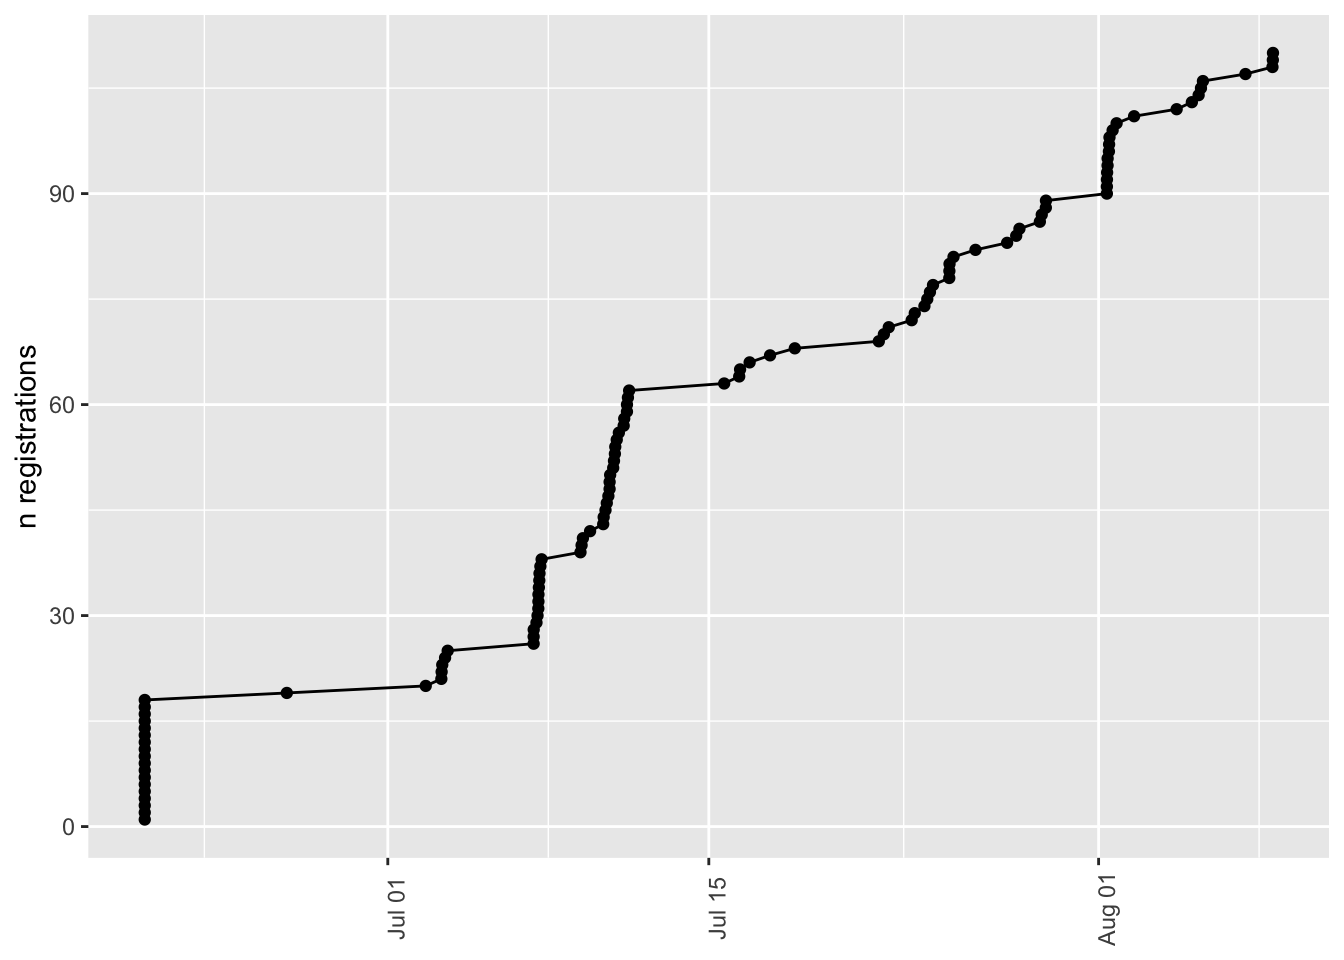
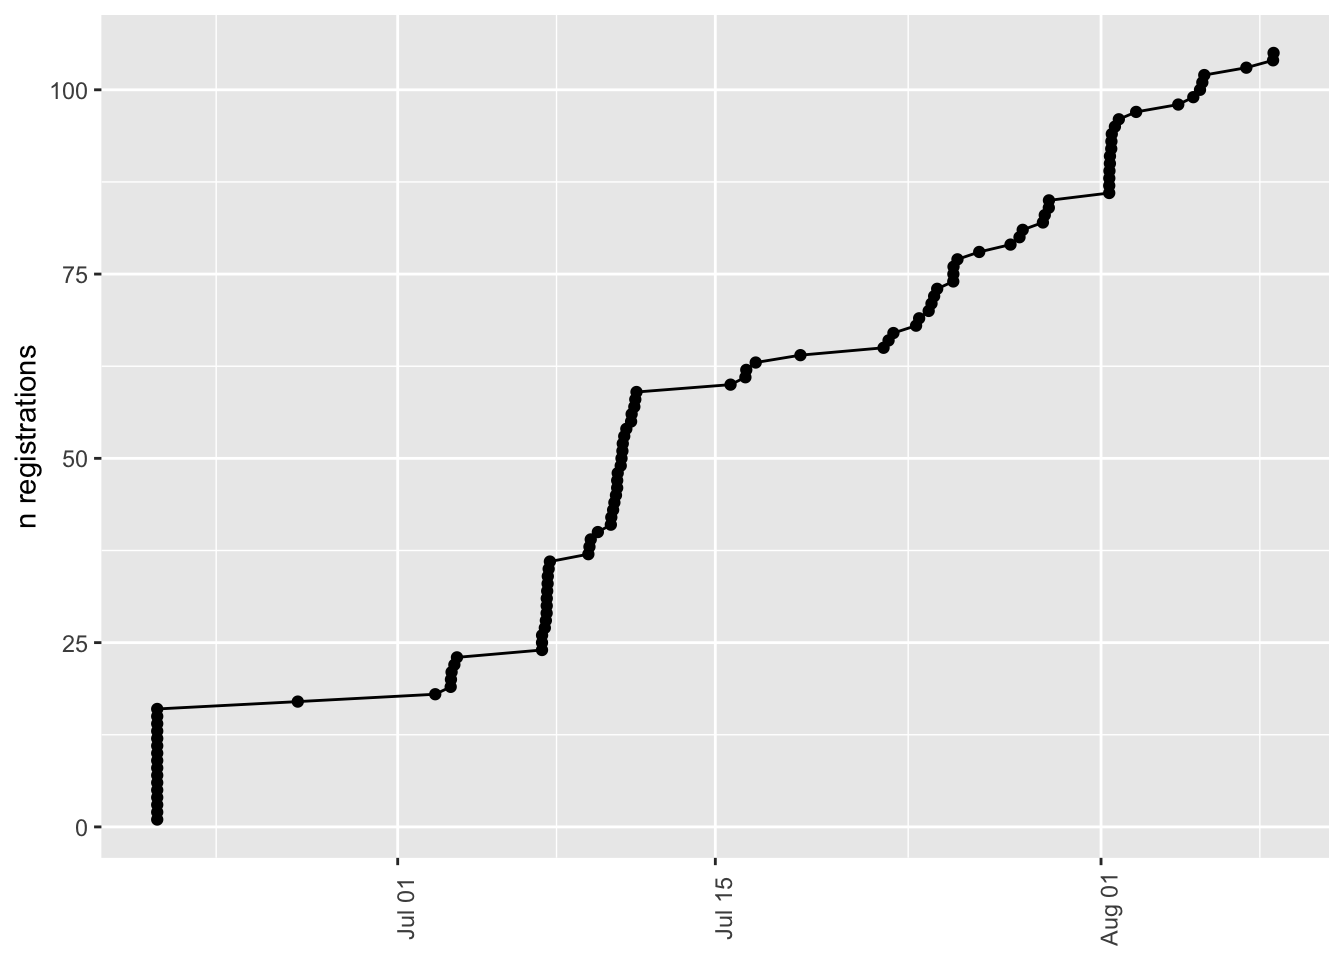
Reorder headers in confirmation.qmd.

diff --git a/docs/confirmation.html b/docs/confirmation.html
@@ -252,11 +252,9 @@ pre > code.sourceCode > span > a:first-child::before { text-decoration: underlin
   <li><a href="#clean" id="toc-clean" class="nav-link" data-scroll-target="#clean">Clean</a></li>
   <li><a href="#visualize" id="toc-visualize" class="nav-link" data-scroll-target="#visualize">Visualize</a>
   <ul class="collapse">
-  <li><a href="#day-1-session-1" id="toc-day-1-session-1" class="nav-link" data-scroll-target="#day-1-session-1">Day 1 • Session 1</a></li>
-  <li><a href="#day-1-session-2" id="toc-day-1-session-2" class="nav-link" data-scroll-target="#day-1-session-2">Day 1 • Session 2</a></li>
-  <li><a href="#day-2-session-3" id="toc-day-2-session-3" class="nav-link" data-scroll-target="#day-2-session-3">Day 2 • Session 3</a></li>
-  <li><a href="#day-2-session-4" id="toc-day-2-session-4" class="nav-link" data-scroll-target="#day-2-session-4">Day 2 • Session 4</a></li>
-  <li><a href="#day-3-session-5" id="toc-day-3-session-5" class="nav-link" data-scroll-target="#day-3-session-5">Day 3 • Session 5</a></li>
+  <li><a href="#day-1" id="toc-day-1" class="nav-link" data-scroll-target="#day-1">Day 1</a></li>
+  <li><a href="#day-2" id="toc-day-2" class="nav-link" data-scroll-target="#day-2">Day 2</a></li>
+  <li><a href="#day-3" id="toc-day-3" class="nav-link" data-scroll-target="#day-3">Day 3</a></li>
   </ul></li>
   </ul>
 <div class="toc-actions"><ul><li><a href="https://github.com/penn-state-open-science/bootcamp-2025/edit/main/src/confirmation.qmd" class="toc-action"><i class="bi bi-github"></i>Edit this page</a></li><li><a href="https://github.com/penn-state-open-science/bootcamp-2025/issues/new" class="toc-action"><i class="bi empty"></i>Report an issue</a></li></ul></div></nav>
@@ -289,20 +287,6 @@ pre > code.sourceCode > span > a:first-child::before { text-decoration: underlin
 </header>
 
 
-<div class="callout callout-style-default callout-warning callout-titled">
-<div class="callout-header d-flex align-content-center">
-<div class="callout-icon-container">
-<i class="callout-icon"></i>
-</div>
-<div class="callout-title-container flex-fill">
-Warning
-</div>
-</div>
-<div class="callout-body-container callout-body">
-<p>This page is under construction.</p>
-<p>Not all functions described work properly.</p>
-</div>
-</div>
 <section id="about" class="level2">
 <h2 class="anchored" data-anchor-id="about">About</h2>
 <p>This page documents the workflow for downloading, cleaning, and visualizing the Bootcamp attendance confirmation data.</p>
@@ -428,10 +412,10 @@ Note
 <span id="cb6-16"><a href="#cb6-16" aria-hidden="true" tabindex="-1"></a></span>
 <span id="cb6-17"><a href="#cb6-17" aria-hidden="true" tabindex="-1"></a>confirmations_short <span class="ot">&lt;-</span> <span class="fu">c</span>(</span>
 <span id="cb6-18"><a href="#cb6-18" aria-hidden="true" tabindex="-1"></a>  <span class="st">"timestamp"</span>,</span>
-<span id="cb6-19"><a href="#cb6-19" aria-hidden="true" tabindex="-1"></a>  <span class="st">"attend_days"</span>,</span>
+<span id="cb6-19"><a href="#cb6-19" aria-hidden="true" tabindex="-1"></a>  <span class="st">"psu_email"</span>,</span>
 <span id="cb6-20"><a href="#cb6-20" aria-hidden="true" tabindex="-1"></a>  <span class="st">"name"</span>,</span>
-<span id="cb6-21"><a href="#cb6-21" aria-hidden="true" tabindex="-1"></a>  <span class="st">"food_restrictions"</span>,</span>
-<span id="cb6-22"><a href="#cb6-22" aria-hidden="true" tabindex="-1"></a>  <span class="st">"psu_email"</span>,</span>
+<span id="cb6-21"><a href="#cb6-21" aria-hidden="true" tabindex="-1"></a>  <span class="st">"attend_days"</span>,</span>
+<span id="cb6-22"><a href="#cb6-22" aria-hidden="true" tabindex="-1"></a>  <span class="st">"food_restrictions"</span>,</span>
 <span id="cb6-23"><a href="#cb6-23" aria-hidden="true" tabindex="-1"></a>  <span class="st">"day_1_session_1"</span>,</span>
 <span id="cb6-24"><a href="#cb6-24" aria-hidden="true" tabindex="-1"></a>  <span class="st">"day_1_session_2"</span>,</span>
 <span id="cb6-25"><a href="#cb6-25" aria-hidden="true" tabindex="-1"></a>  <span class="st">"day_2_session_3"</span>,</span>
@@ -472,7 +456,7 @@ Table&nbsp;10.1: A minimal data dictionary.
 </tr>
 <tr class="even">
 <td style="text-align: left;">Email Address</td>
-<td style="text-align: left;">attend_days</td>
+<td style="text-align: left;">psu_email</td>
 <td style="text-align: left;">FALSE</td>
 </tr>
 <tr class="odd">
@@ -482,12 +466,12 @@ Table&nbsp;10.1: A minimal data dictionary.
 </tr>
 <tr class="even">
 <td style="text-align: left;">Which days of the bootcamp will you attend?</td>
-<td style="text-align: left;">food_restrictions</td>
+<td style="text-align: left;">attend_days</td>
 <td style="text-align: left;">TRUE</td>
 </tr>
 <tr class="odd">
 <td style="text-align: left;">Any meal/food restrictions?</td>
-<td style="text-align: left;">psu_email</td>
+<td style="text-align: left;">food_restrictions</td>
 <td style="text-align: left;">TRUE</td>
 </tr>
 <tr class="even">
@@ -597,13 +581,26 @@ Table&nbsp;10.1: A minimal data dictionary.
 </section>
 <section id="visualize" class="level2">
 <h2 class="anchored" data-anchor-id="visualize">Visualize</h2>
-<p>As of 2025-08-09, we have had <em>n</em>=55 non-presenter registrants confirm. The following show the sessions they indicate that they wish to attend.</p>
-<section id="day-1-session-1" class="level3">
-<h3 class="anchored" data-anchor-id="day-1-session-1"><a href="./sessions.html#workshop-session-1">Day 1 • Session 1</a></h3>
+<p>As of 2025-08-09, we have had <em>n</em>=55 non-presenter registrants confirm.</p>
+<section id="day-1" class="level3">
+<h3 class="anchored" data-anchor-id="day-1">Day 1</h3>
 <div class="cell">
 <details class="code-fold">
 <summary>Code</summary>
-<div class="sourceCode cell-code" id="cb11"><pre class="sourceCode r code-with-copy"><code class="sourceCode r"><span id="cb11-1"><a href="#cb11-1" aria-hidden="true" tabindex="-1"></a><span class="fu">xtabs</span>(<span class="at">formula =</span> <span class="sc">~</span> day_1_session_1, <span class="at">data =</span> confirmations_clean)</span></code><button title="Copy to Clipboard" class="code-copy-button"><i class="bi"></i></button></pre></div>
+<div class="sourceCode cell-code" id="cb11"><pre class="sourceCode r code-with-copy"><code class="sourceCode r"><span id="cb11-1"><a href="#cb11-1" aria-hidden="true" tabindex="-1"></a><span class="fu">xtabs</span>(<span class="at">formula =</span> <span class="sc">~</span> plan_wed, <span class="at">data =</span> confirmations_clean)</span></code><button title="Copy to Clipboard" class="code-copy-button"><i class="bi"></i></button></pre></div>
+</details>
+<div class="cell-output cell-output-stdout">
+<pre><code>plan_wed
+FALSE  TRUE 
+   12    43 </code></pre>
+</div>
+</div>
+<section id="session-1" class="level4">
+<h4 class="anchored" data-anchor-id="session-1"><a href="./sessions.html#workshop-session-1">Session 1</a></h4>
+<div class="cell">
+<details class="code-fold">
+<summary>Code</summary>
+<div class="sourceCode cell-code" id="cb13"><pre class="sourceCode r code-with-copy"><code class="sourceCode r"><span id="cb13-1"><a href="#cb13-1" aria-hidden="true" tabindex="-1"></a><span class="fu">xtabs</span>(<span class="at">formula =</span> <span class="sc">~</span> day_1_session_1, <span class="at">data =</span> confirmations_clean)</span></code><button title="Copy to Clipboard" class="code-copy-button"><i class="bi"></i></button></pre></div>
 </details>
 <div class="cell-output cell-output-stdout">
 <pre><code>day_1_session_1
@@ -612,12 +609,12 @@ Table&nbsp;10.1: A minimal data dictionary.
 </div>
 </div>
 </section>
-<section id="day-1-session-2" class="level3">
-<h3 class="anchored" data-anchor-id="day-1-session-2"><a href="./sessions.html#workshop-session-2">Day 1 • Session 2</a></h3>
+<section id="session-2" class="level4">
+<h4 class="anchored" data-anchor-id="session-2"><a href="./sessions.html#workshop-session-2">Session 2</a></h4>
 <div class="cell">
 <details class="code-fold">
 <summary>Code</summary>
-<div class="sourceCode cell-code" id="cb13"><pre class="sourceCode r code-with-copy"><code class="sourceCode r"><span id="cb13-1"><a href="#cb13-1" aria-hidden="true" tabindex="-1"></a><span class="fu">xtabs</span>(<span class="at">formula =</span> <span class="sc">~</span> day_1_session_2, <span class="at">data =</span> confirmations_clean)</span></code><button title="Copy to Clipboard" class="code-copy-button"><i class="bi"></i></button></pre></div>
+<div class="sourceCode cell-code" id="cb15"><pre class="sourceCode r code-with-copy"><code class="sourceCode r"><span id="cb15-1"><a href="#cb15-1" aria-hidden="true" tabindex="-1"></a><span class="fu">xtabs</span>(<span class="at">formula =</span> <span class="sc">~</span> day_1_session_2, <span class="at">data =</span> confirmations_clean)</span></code><button title="Copy to Clipboard" class="code-copy-button"><i class="bi"></i></button></pre></div>
 </details>
 <div class="cell-output cell-output-stdout">
 <pre><code>day_1_session_2
@@ -626,12 +623,26 @@ jupyter_intro          qrps
 </div>
 </div>
 </section>
-<section id="day-2-session-3" class="level3">
-<h3 class="anchored" data-anchor-id="day-2-session-3"><a href="./sessions.html#workshop-session-3">Day 2 • Session 3</a></h3>
+</section>
+<section id="day-2" class="level3">
+<h3 class="anchored" data-anchor-id="day-2">Day 2</h3>
 <div class="cell">
 <details class="code-fold">
 <summary>Code</summary>
-<div class="sourceCode cell-code" id="cb15"><pre class="sourceCode r code-with-copy"><code class="sourceCode r"><span id="cb15-1"><a href="#cb15-1" aria-hidden="true" tabindex="-1"></a><span class="fu">xtabs</span>(<span class="at">formula =</span> <span class="sc">~</span> day_2_session_3, <span class="at">data =</span> confirmations_clean)</span></code><button title="Copy to Clipboard" class="code-copy-button"><i class="bi"></i></button></pre></div>
+<div class="sourceCode cell-code" id="cb17"><pre class="sourceCode r code-with-copy"><code class="sourceCode r"><span id="cb17-1"><a href="#cb17-1" aria-hidden="true" tabindex="-1"></a><span class="fu">xtabs</span>(<span class="at">formula =</span> <span class="sc">~</span> plan_thu, <span class="at">data =</span> confirmations_clean)</span></code><button title="Copy to Clipboard" class="code-copy-button"><i class="bi"></i></button></pre></div>
+</details>
+<div class="cell-output cell-output-stdout">
+<pre><code>plan_thu
+FALSE  TRUE 
+   14    41 </code></pre>
+</div>
+</div>
+<section id="session-3" class="level4">
+<h4 class="anchored" data-anchor-id="session-3"><a href="./sessions.html#workshop-session-3">Session 3</a></h4>
+<div class="cell">
+<details class="code-fold">
+<summary>Code</summary>
+<div class="sourceCode cell-code" id="cb19"><pre class="sourceCode r code-with-copy"><code class="sourceCode r"><span id="cb19-1"><a href="#cb19-1" aria-hidden="true" tabindex="-1"></a><span class="fu">xtabs</span>(<span class="at">formula =</span> <span class="sc">~</span> day_2_session_3, <span class="at">data =</span> confirmations_clean)</span></code><button title="Copy to Clipboard" class="code-copy-button"><i class="bi"></i></button></pre></div>
 </details>
 <div class="cell-output cell-output-stdout">
 <pre><code>day_2_session_3
@@ -640,12 +651,12 @@ jupyter_intro          qrps
 </div>
 </div>
 </section>
-<section id="day-2-session-4" class="level3">
-<h3 class="anchored" data-anchor-id="day-2-session-4"><a href="./sessions.html#workshop-session-4">Day 2 • Session 4</a></h3>
+<section id="session-4" class="level4">
+<h4 class="anchored" data-anchor-id="session-4"><a href="./sessions.html#workshop-session-4">Session 4</a></h4>
 <div class="cell">
 <details class="code-fold">
 <summary>Code</summary>
-<div class="sourceCode cell-code" id="cb17"><pre class="sourceCode r code-with-copy"><code class="sourceCode r"><span id="cb17-1"><a href="#cb17-1" aria-hidden="true" tabindex="-1"></a><span class="fu">xtabs</span>(<span class="at">formula =</span> <span class="sc">~</span> day_2_session_4, <span class="at">data =</span> confirmations_clean)</span></code><button title="Copy to Clipboard" class="code-copy-button"><i class="bi"></i></button></pre></div>
+<div class="sourceCode cell-code" id="cb21"><pre class="sourceCode r code-with-copy"><code class="sourceCode r"><span id="cb21-1"><a href="#cb21-1" aria-hidden="true" tabindex="-1"></a><span class="fu">xtabs</span>(<span class="at">formula =</span> <span class="sc">~</span> day_2_session_4, <span class="at">data =</span> confirmations_clean)</span></code><button title="Copy to Clipboard" class="code-copy-button"><i class="bi"></i></button></pre></div>
 </details>
 <div class="cell-output cell-output-stdout">
 <pre><code>day_2_session_4
@@ -654,12 +665,26 @@ jupyter_intro          qrps
 </div>
 </div>
 </section>
-<section id="day-3-session-5" class="level3">
-<h3 class="anchored" data-anchor-id="day-3-session-5"><a href="./sessions.html#workshop-session-5">Day 3 • Session 5</a></h3>
+</section>
+<section id="day-3" class="level3">
+<h3 class="anchored" data-anchor-id="day-3">Day 3</h3>
 <div class="cell">
 <details class="code-fold">
 <summary>Code</summary>
-<div class="sourceCode cell-code" id="cb19"><pre class="sourceCode r code-with-copy"><code class="sourceCode r"><span id="cb19-1"><a href="#cb19-1" aria-hidden="true" tabindex="-1"></a><span class="fu">xtabs</span>(<span class="at">formula =</span> <span class="sc">~</span> day_3_session_5, <span class="at">data =</span> confirmations_clean)</span></code><button title="Copy to Clipboard" class="code-copy-button"><i class="bi"></i></button></pre></div>
+<div class="sourceCode cell-code" id="cb23"><pre class="sourceCode r code-with-copy"><code class="sourceCode r"><span id="cb23-1"><a href="#cb23-1" aria-hidden="true" tabindex="-1"></a><span class="fu">xtabs</span>(<span class="at">formula =</span> <span class="sc">~</span> plan_fri, <span class="at">data =</span> confirmations_clean)</span></code><button title="Copy to Clipboard" class="code-copy-button"><i class="bi"></i></button></pre></div>
+</details>
+<div class="cell-output cell-output-stdout">
+<pre><code>plan_fri
+FALSE  TRUE 
+   17    38 </code></pre>
+</div>
+</div>
+<section id="session-5" class="level4">
+<h4 class="anchored" data-anchor-id="session-5"><a href="./sessions.html#workshop-session-5">Session 5</a></h4>
+<div class="cell">
+<details class="code-fold">
+<summary>Code</summary>
+<div class="sourceCode cell-code" id="cb25"><pre class="sourceCode r code-with-copy"><code class="sourceCode r"><span id="cb25-1"><a href="#cb25-1" aria-hidden="true" tabindex="-1"></a><span class="fu">xtabs</span>(<span class="at">formula =</span> <span class="sc">~</span> day_3_session_5, <span class="at">data =</span> confirmations_clean)</span></code><button title="Copy to Clipboard" class="code-copy-button"><i class="bi"></i></button></pre></div>
 </details>
 <div class="cell-output cell-output-stdout">
 <pre><code>day_3_session_5
@@ -669,6 +694,7 @@ early_career    quarto_II
 </div>
 
 
+</section>
 </section>
 </section>
 

diff --git a/docs/registration.html b/docs/registration.html
@@ -280,7 +280,7 @@ pre > code.sourceCode > span > a:first-child::before { text-decoration: underlin
     <div>
     <div class="quarto-title-meta-heading">Modified</div>
     <div class="quarto-title-meta-contents">
-      <p class="date-modified">August 8, 2025</p>
+      <p class="date-modified">August 9, 2025</p>
     </div>
   </div>
     
@@ -495,7 +495,8 @@ Table&nbsp;9.1: A minimal data dictionary.
 <span id="cb6-4"><a href="#cb6-4" aria-hidden="true" tabindex="-1"></a></span>
 <span id="cb6-5"><a href="#cb6-5" aria-hidden="true" tabindex="-1"></a>registrations_clean <span class="ot">&lt;-</span> registrations_clean <span class="sc">|&gt;</span></span>
 <span id="cb6-6"><a href="#cb6-6" aria-hidden="true" tabindex="-1"></a>  dplyr<span class="sc">::</span><span class="fu">filter</span>(<span class="sc">!</span>gilmore_dup <span class="sc">|</span> <span class="sc">!</span>eyal_dup) <span class="sc">|&gt;</span></span>
-<span id="cb6-7"><a href="#cb6-7" aria-hidden="true" tabindex="-1"></a>  dplyr<span class="sc">::</span><span class="fu">mutate</span>(<span class="at">timestamp =</span> lubridate<span class="sc">::</span><span class="fu">mdy_hms</span>(timestamp, <span class="at">tz =</span> <span class="st">"America/New_York"</span>))</span></code><button title="Copy to Clipboard" class="code-copy-button"><i class="bi"></i></button></pre></div>
+<span id="cb6-7"><a href="#cb6-7" aria-hidden="true" tabindex="-1"></a>  dplyr<span class="sc">::</span><span class="fu">distinct</span>(name, <span class="at">.keep_all =</span> <span class="cn">TRUE</span>) <span class="sc">|&gt;</span></span>
+<span id="cb6-8"><a href="#cb6-8" aria-hidden="true" tabindex="-1"></a>  dplyr<span class="sc">::</span><span class="fu">mutate</span>(<span class="at">timestamp =</span> lubridate<span class="sc">::</span><span class="fu">mdy_hms</span>(timestamp, <span class="at">tz =</span> <span class="st">"America/New_York"</span>))</span></code><button title="Copy to Clipboard" class="code-copy-button"><i class="bi"></i></button></pre></div>
 </details>
 </div>
 </section>
@@ -513,8 +514,8 @@ Table&nbsp;9.1: A minimal data dictionary.
 <span id="cb7-5"><a href="#cb7-5" aria-hidden="true" tabindex="-1"></a>  dplyr<span class="sc">::</span><span class="fu">mutate</span>(<span class="at">keynotes =</span> stringr<span class="sc">::</span><span class="fu">str_detect</span>(<span class="at">string =</span> bootcamp_keynote, <span class="at">pattern =</span> <span class="st">"address"</span>))</span></code><button title="Copy to Clipboard" class="code-copy-button"><i class="bi"></i></button></pre></div>
 </details>
 </div>
-<p>As of 2025-08-09, we have <em>n</em>=110 registered attendees and presenters. That is 146.7% of our target registration/attendance limit of <em>n</em>=75.</p>
-<p>Of these, <em>n</em>=4 plan to attend a keynote talk, <em>n</em>=21 are presenting, and <em>n</em>=81 plan to attend one or more sessions.</p>
+<p>As of 2025-08-09, we have <em>n</em>=105 registered attendees and presenters. That is 140% of our target registration/attendance limit of <em>n</em>=75.</p>
+<p>Of these, <em>n</em>=2 plan to attend a keynote talk, <em>n</em>=19 are presenting, and <em>n</em>=81 plan to attend one or more sessions.</p>
 </section>
 <section id="time-series" class="level3 unnumbered">
 <h3 class="unnumbered anchored" data-anchor-id="time-series">Time series</h3>
@@ -591,13 +592,13 @@ n_fri
 <tbody>
 <tr>
 <td style="text-align:right;">
-92
+89
 </td>
 <td style="text-align:right;">
-96
+93
 </td>
 <td style="text-align:right;">
-83
+80
 </td>
 </tr>
 </tbody>
